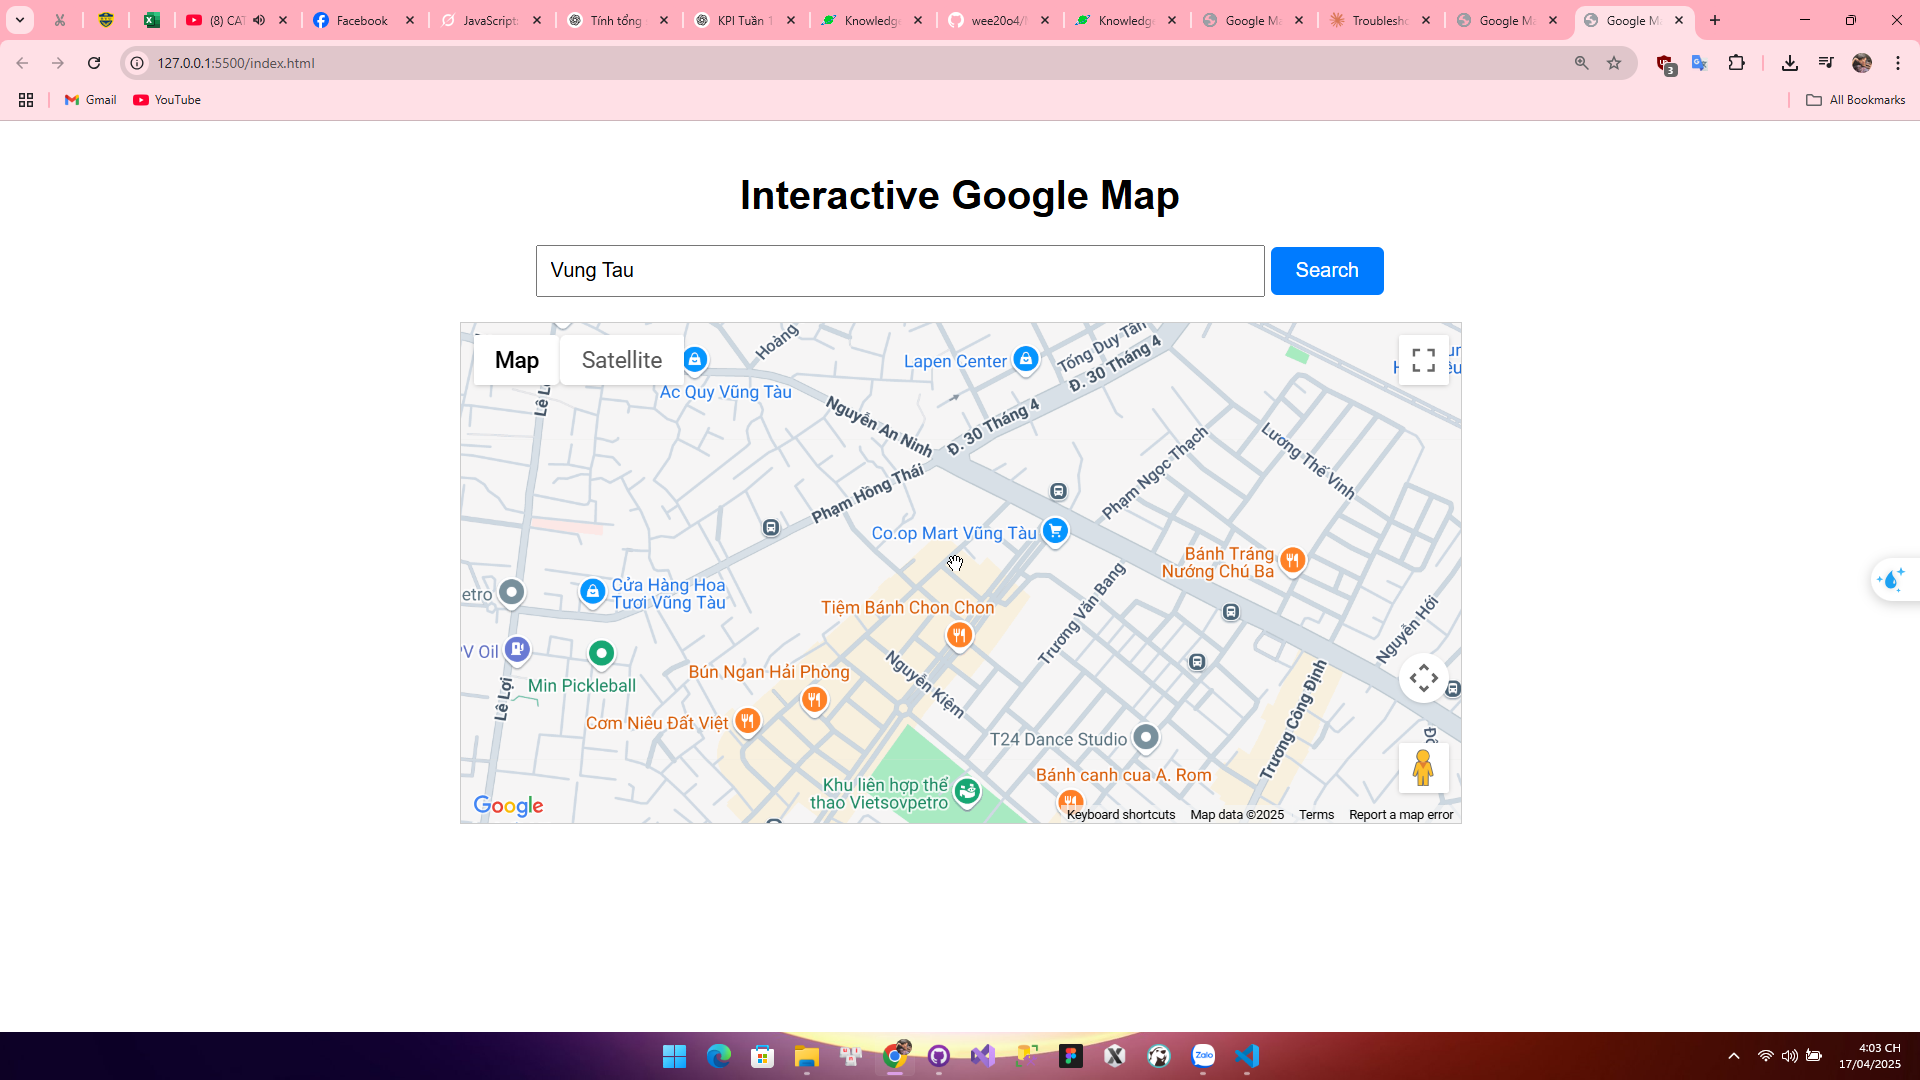
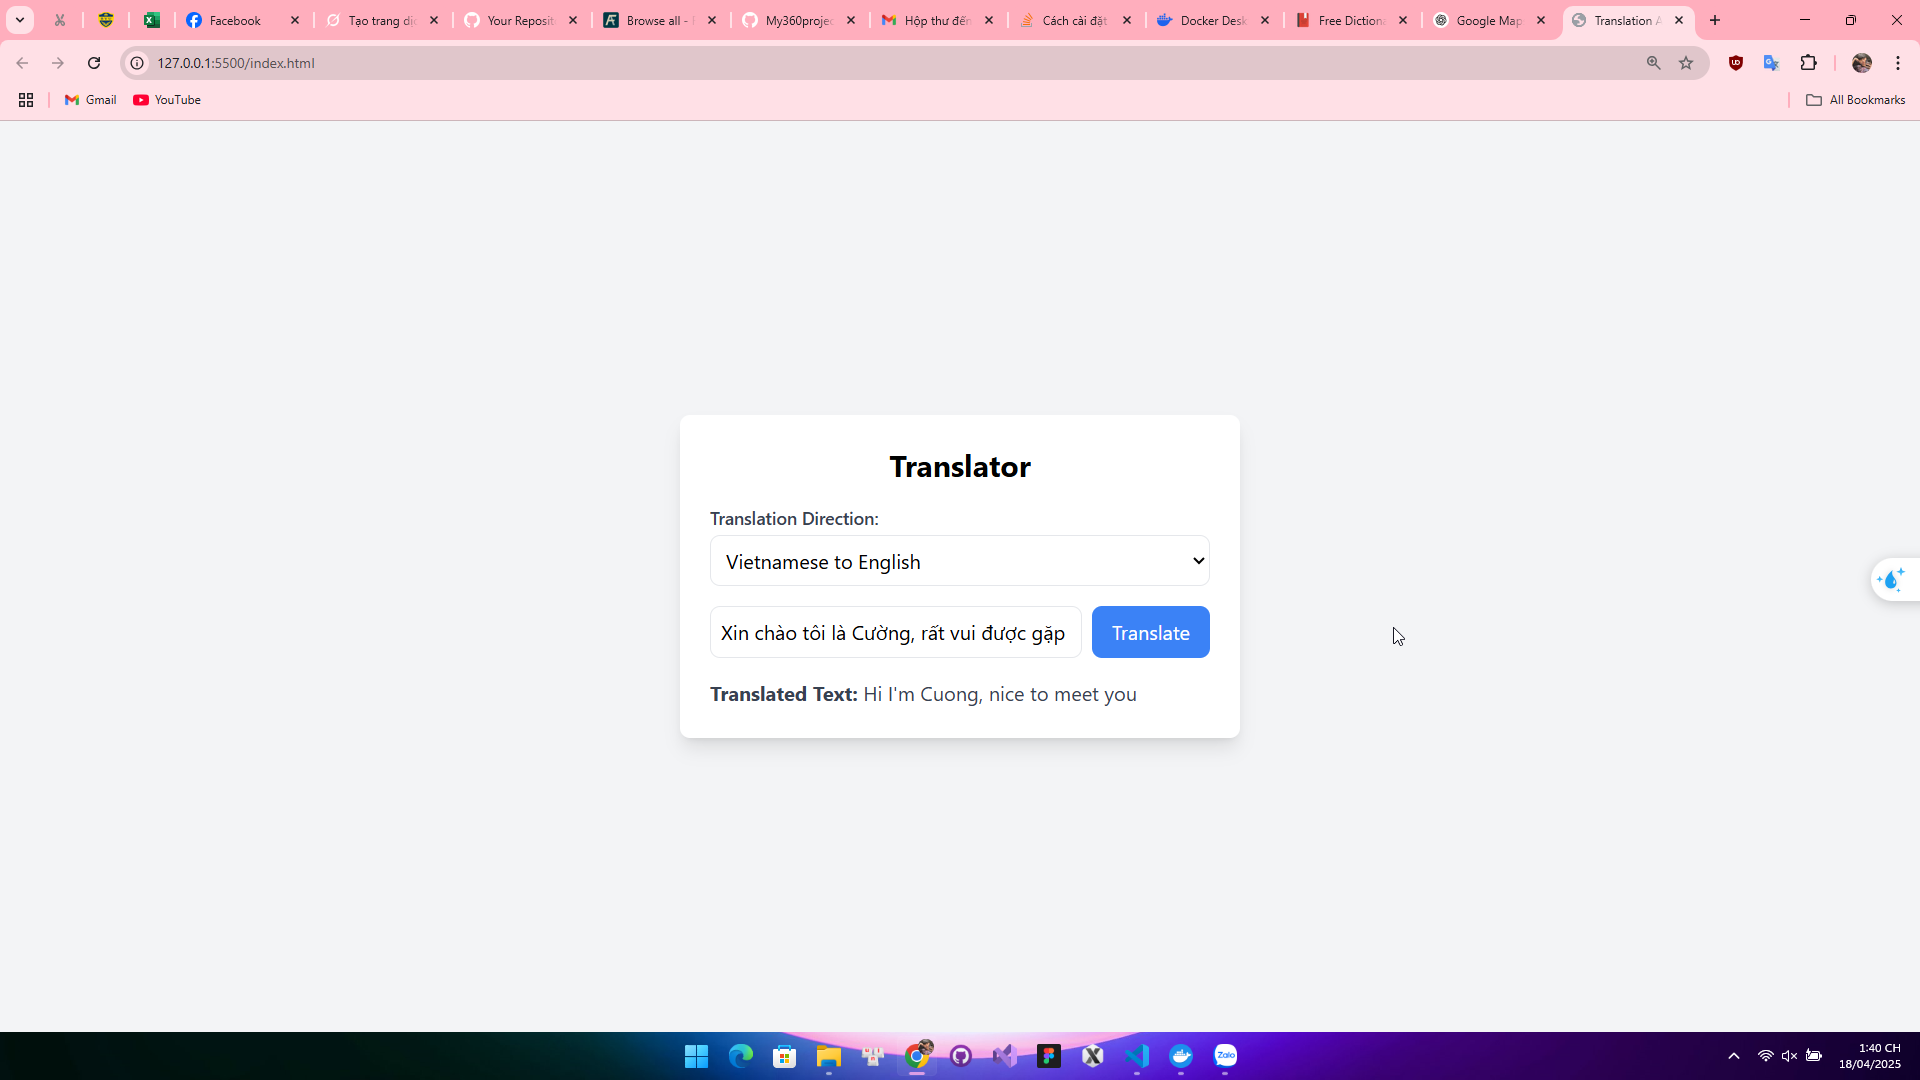
Update API call

diff --git a/APIcall/index.html b/APIcall/index.html
@@ -3,113 +3,73 @@
 <head>
     <meta charset="UTF-8">
     <meta name="viewport" content="width=device-width, initial-scale=1.0">
-    <link rel="icon" type="image/x-icon" href="/path/to/favicon.ico">
-    <title>Google Maps API Example</title>
-    <style>
-        body {
-            font-family: Arial, sans-serif;
-            max-width: 800px;
-            margin: 0 auto;
-            padding: 20px;
-            text-align: center;
-        }
-        #map {
-            height: 400px;
-            width: 100%;
-            margin-top: 20px;
-            border: 1px solid #ccc;
-        }
-        #search-box {
-            margin: 20px 0;
-        }
-        input {
-            padding: 10px;
-            width: 70%;
-            font-size: 16px;
-        }
-        button {
-            padding: 10px 20px;
-            font-size: 16px;
-            cursor: pointer;
-            background-color: #007bff;
-            color: white;
-            border: none;
-            border-radius: 5px;
-        }
-        button:hover {
-            background-color: #0056b3;
-        }
-        #result {
-            margin-top: 10px;
-            color: red;
-        }
-    </style>
+    <title>Translation App</title>
+    <script src="https://cdn.tailwindcss.com"></script>
 </head>
-<body>
-    <h1>Interactive Google Map</h1>
-    <div id="search-box">
-        <input type="text" id="address" placeholder="Enter address (e.g., Hanoi, Vietnam)">
-        <button onclick="searchAddress()">Search</button>
+<body class="bg-gray-100 flex items-center justify-center min-h-screen">
+    <div class="bg-white p-6 rounded-lg shadow-lg w-full max-w-md">
+        <h1 class="text-2xl font-bold text-center mb-4">Translator</h1>
+        <div class="mb-4">
+            <label for="direction" class="block text-sm font-medium text-gray-700">Translation Direction:</label>
+            <select id="direction" class="mt-1 p-2 border rounded-lg w-full focus:outline-none focus:ring-2 focus:ring-blue-500">
+                <option value="en|vi">English to Vietnamese</option>
+                <option value="vi|en">Vietnamese to English</option>
+            </select>
+        </div>
+        <div class="flex space-x-2 mb-4">
+            <input
+                type="text"
+                id="textInput"
+                placeholder="Enter text to translate"
+                class="flex-1 p-2 border rounded-lg focus:outline-none focus:ring-2 focus:ring-blue-500"
+            />
+            <button
+                onclick="translateText()"
+                class="bg-blue-500 text-white px-4 py-2 rounded-lg hover:bg-blue-600"
+            >
+                Translate
+            </button>
+        </div>
+        <div id="result" class="text-gray-700"></div>
     </div>
-    <div id="result"></div>
-    <div id="map"></div>
 
     <script>
+        async function translateText() {
+            const textInput = document.getElementById("textInput");
+            const direction = document.getElementById("direction").value;
+            const resultDiv = document.getElementById("result");
+            const text = textInput.value.trim();
 
-        function updateElementContent(elementId, newContent, styles = {}) {
-            const element = document.getElementById(elementId);
-            if (element) {
-                element.textContent = newContent;
-                Object.assign(element.style, styles);
-            } else {
-                console.error(`Element with ID ${elementId} not found`);
-            }
-        }
-
-        let map;
-        function initMap() {
-            const defaultLocation = { lat: 21.0285, lng: 105.8542 };
-            map = new google.maps.Map(document.getElementById('map'), {
-                center: defaultLocation,
-                zoom: 12
-            });
-        }
-        async function searchAddress() {
-            const address = document.getElementById('address').value;
-            if (!address) {
-                updateElementContent('result', 'Please enter an address', { color: 'red' });
+            if (!text) {
+                resultDiv.innerHTML = '<p class="text-red-500">Please enter text to translate.</p>';
                 return;
             }
 
-            updateElementContent('result', 'Loading...', { color: 'blue' });
-            const apiKey = 'ABCDE12345';
-            const url = `https://maps.googleapis.com/maps/api/geocode/json?address=${encodeURIComponent(address)}&key=${apiKey}`;
+            resultDiv.innerHTML = '<p>Loading...</p>';
 
             try {
-                const response = await fetch(url);
+                const response = await fetch(
+                    `https://api.mymemory.translated.net/get?q=${encodeURIComponent(text)}&langpair=${direction}`
+                );
                 const data = await response.json();
-                
-                if (data.status === 'OK') {
-                    const location = data.results[0].geometry.location;
-                    map.setCenter(location);
-                    new google.maps.Marker({
-                        position: location,
-                        map: map,
-                        title: address
-                    });
-                    updateElementContent('result', `Found: ${data.results[0].formatted_address}`, { color: 'green' });
-                } else {
-                    updateElementContent('result', 'Address not found', { color: 'red' });
+                if (data.responseStatus !== 200) {
+                    throw new Error("Translation failed");
                 }
+                displayTranslation(data);
             } catch (error) {
-                updateElementContent('result', 'Error fetching data', { color: 'red' });
-                console.error('Error:', error);
+                resultDiv.innerHTML = `<p class="text-red-500">${error.message}</p>`;
+            } finally {
+                textInput.value = "";
             }
         }
-    </script>
 
-    <script async defer
-    src="https://maps.googleapis.com/maps/api/js?key=YOUR_ACTUAL_API_KEY&callback=initMap">
-</script>
+        function displayTranslation(data) {
+            const resultDiv = document.getElementById("result");
+            const translatedText = data.responseData.translatedText || "No translation available";
+            resultDiv.innerHTML = `
+                <p><strong>Translated Text:</strong> ${translatedText}</p>
+            `;
+        }
+    </script>
 </body>
 </html>

diff --git a/APIcall/README.md b/APIcall/README.md
@@ -1,23 +1,3 @@
-Hiển thị bản đồ tương tác mặc định tại Hà Nội, Việt Nam.
-
-Người dùng có thể nhập địa chỉ để tìm kiếm (ví dụ: "Hà Nội, Việt Nam").
-
-Sử dụng Google Geocoding API để chuyển địa chỉ thành tọa độ (latitude, longitude).
-
-Hiển thị marker (ghim) tại vị trí tìm kiếm trên bản đồ.
-
-Thông báo kết quả địa chỉ hoặc lỗi nếu không tìm thấy.
-
-
-Sử dụng các: 
-
-- HTML5 & CSS3 – tạo giao diện và định dạng trang.
-
-- JavaScript thuần (ES6) – xử lý sự kiện và tích hợp API.
-
-- Google Maps JavaScript API – hiển thị bản đồ và marker.
-
-- Google Geocoding API – chuyển đổi địa chỉ thành tọa độ.
-
+Ứng dụng đơn giản dùng để dịch qua lại giữa tiếng Anh và tiếng Việt bằng cách sử dụng API từ MyMemory Translation API. Giao diện được xây dựng bằng HTML và TailwindCSS, còn logic chính được xử lý bằng JavaScript.
 
 ![alt text](image.png)
